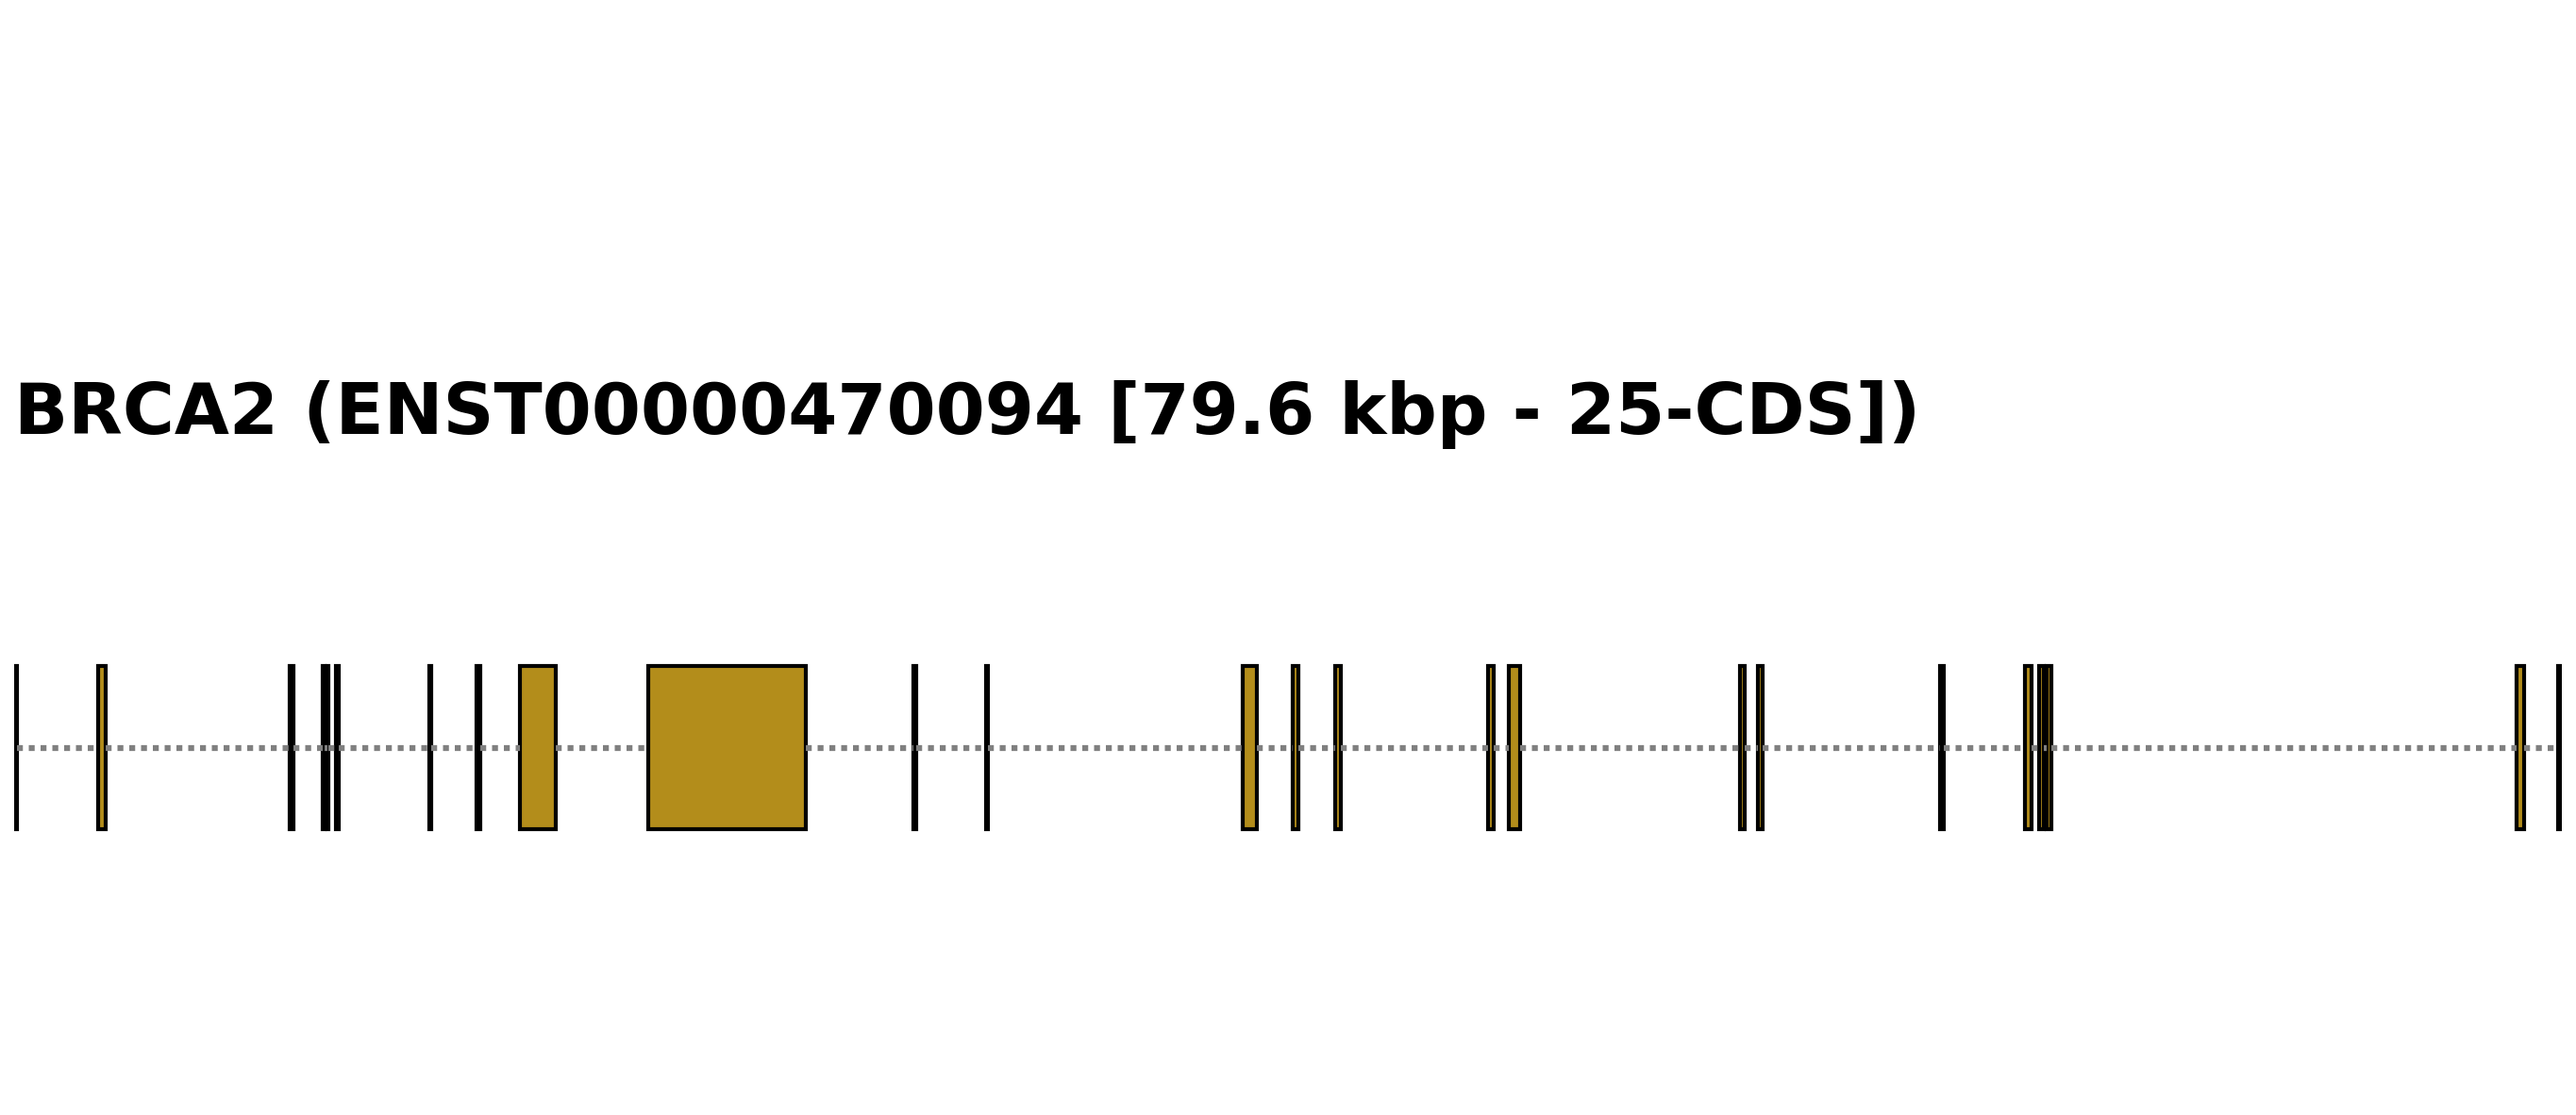
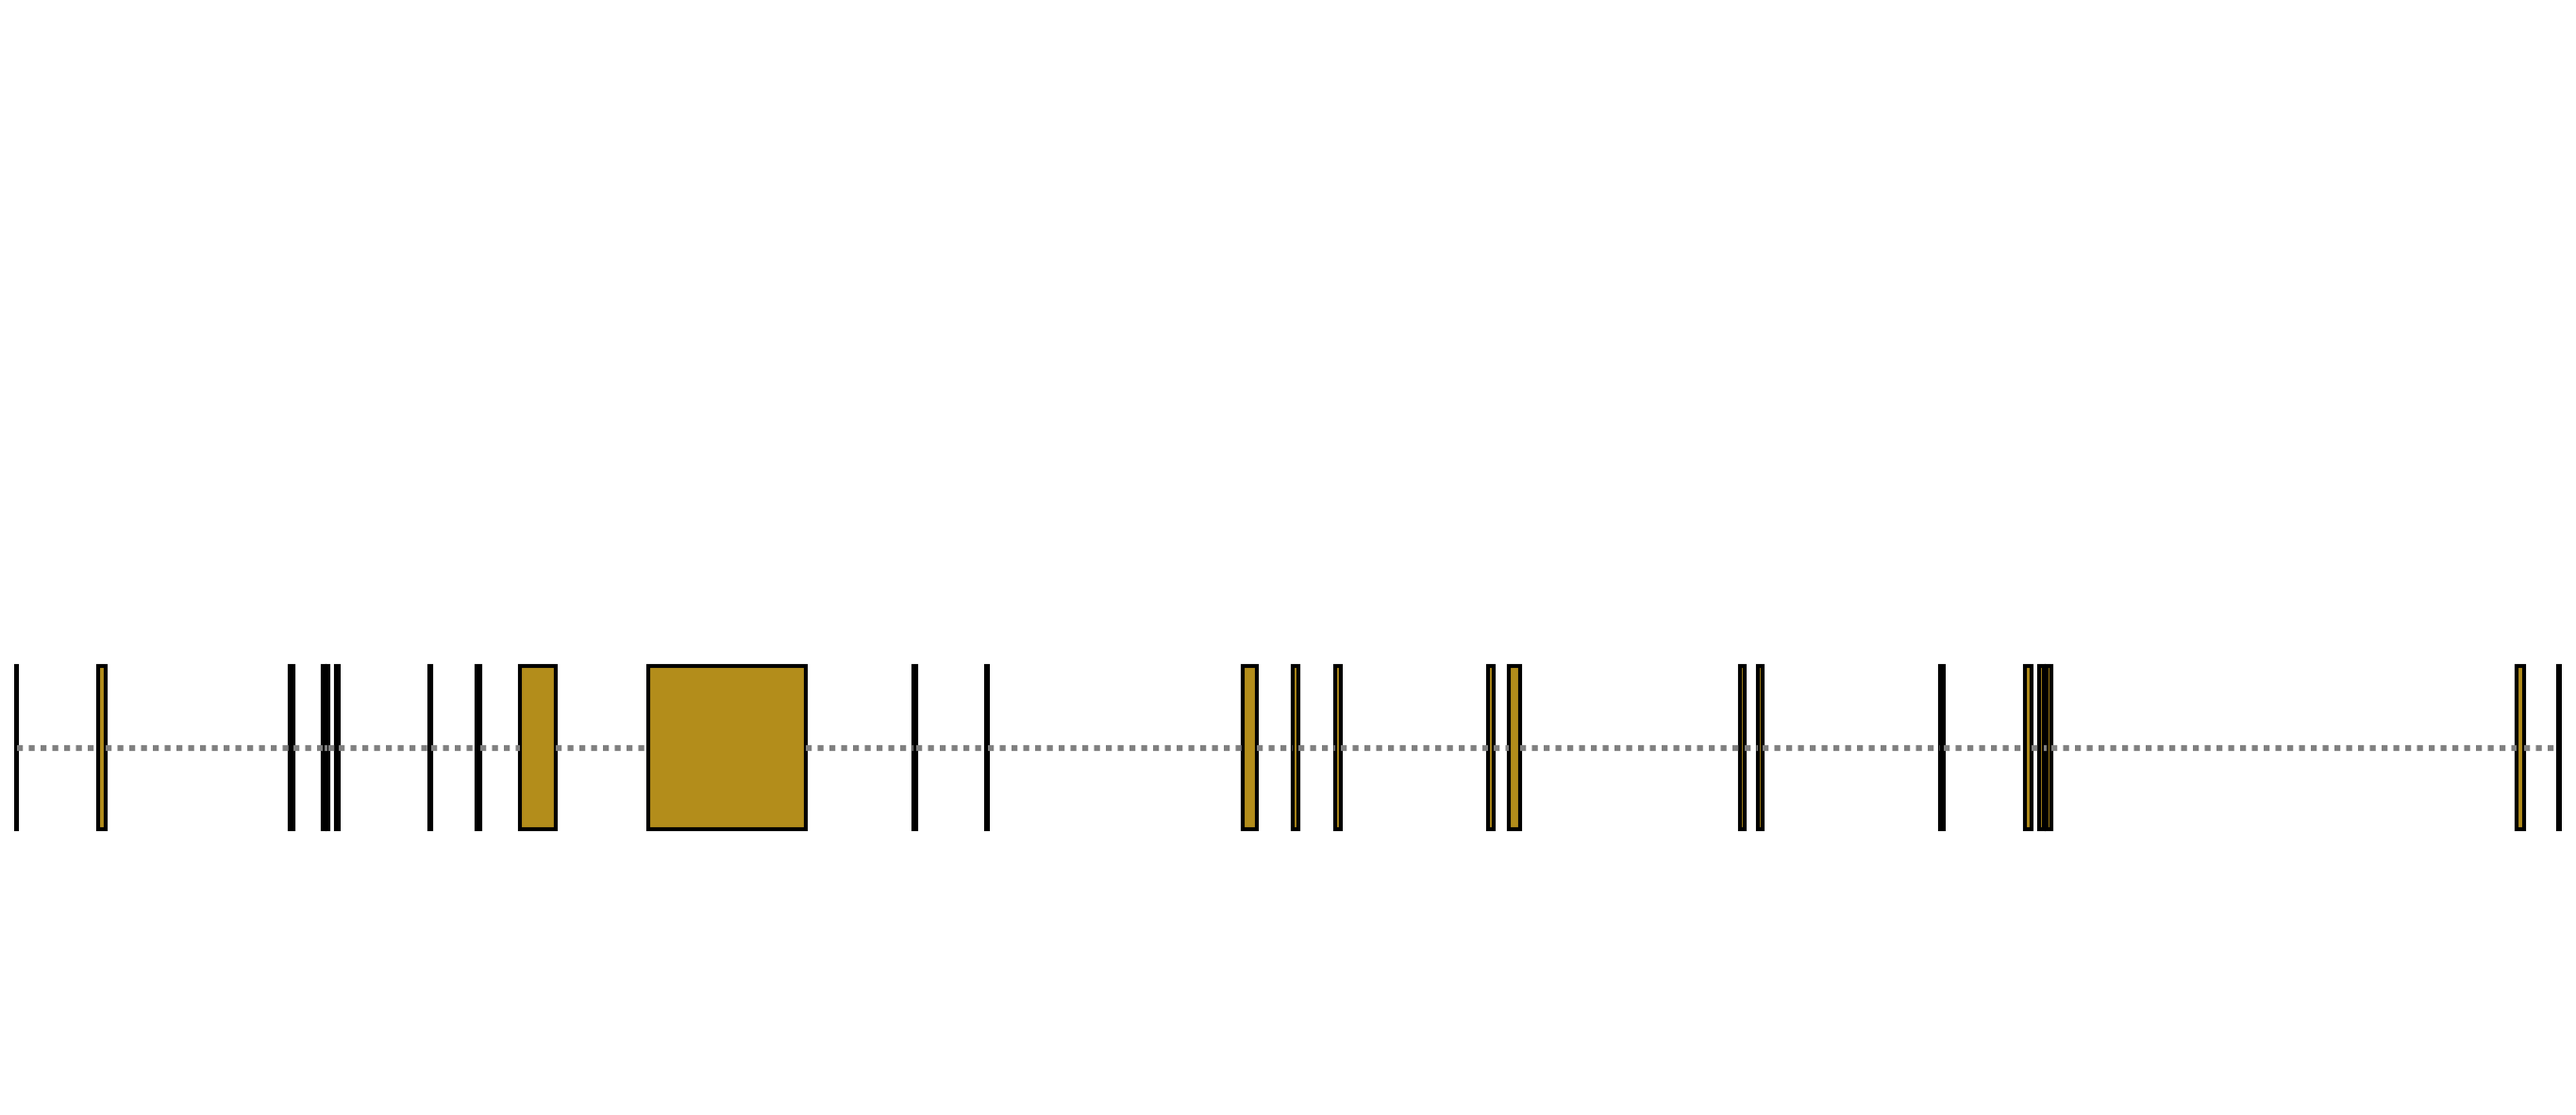
Version 1.0.3

Changed region(s): [[0.0, 0.335, 0.7473, 0.3959]]

diff --git a/Docs/Mini_Tutorial.md b/Docs/Mini_Tutorial.md
@@ -83,6 +83,7 @@
 	```
 	python3 Transcripts_Plots.py \
 	--format png \
+	--no_transcript_label \
 	--transcript ENST00000380152 \
 	--gtf Ensembl_Gene_ENSG00000139618.gtf \
 	--select exons
@@ -104,7 +105,7 @@
 	This transcript is 84.8 kbp long and is composed of 27-exons, with the following structure:
 
 	<p align="center">
-	<img src="https://github.com/raramayo/Transcripts_Plots_Python/blob/main/Images/Transcripts_Plots_dir_Run01/ENST00000380152_exons_Short_Introns.png" width="800" height="800" style="display: block; margin: 0 auto">
+	<img src="https://github.com/raramayo/Transcripts_Plots_Python/blob/main/Images/Transcripts_Plots_dir_Run01/ENST00000380152_exons_Short_Introns.png" width="1000" height="400" style="display: block; margin: 0 auto">
 	<p align="center">
 	BRCA2 (ENST00000380152 [84.8 kbp - 27-exons])
 
@@ -113,6 +114,7 @@
 	```
 	python3 Transcripts_Plots.py \
 	--format png \
+	--no_transcript_label \
 	--transcript ENST00000380152 \
 	--gtf Ensembl_Gene_ENSG00000139618.gtf \
 	--select CDS \
@@ -144,6 +146,7 @@
 	```
 	python3 Transcripts_Plots.py \
 	--format png \
+	--no_transcript_label \
 	--transcript ENST00000380152 \
 	--gtf Ensembl_Gene_ENSG00000139618.gtf \
 	--select CDS \
@@ -225,6 +228,7 @@
 	```
 	python3 Transcripts_Plots.py \
 	--format png \
+	--no_transcript_label \
 	--file Ensembl_multiple_genes_transcripts_list.txt \
 	--select CDS \
 	--full_scale
@@ -284,6 +288,7 @@
     ```
 	python3 Transcripts_Plots.py \
 	--format png \
+	--no_transcript_label \
 	--transcript ENST00000380152 \
 	--gtf Ensembl_Gene_ENSG00000139618.gtf \
 	--select exons \
@@ -310,6 +315,7 @@
     ```
 	python3 Transcripts_Plots.py \
 	--format png \
+	--no_transcript_label \
 	--transcript ENST00000380152 \
 	--gtf Ensembl_Gene_ENSG00000139618.gtf \
 	--select exons \
@@ -339,6 +345,7 @@
 	```
 	python3 Transcripts_Plots.py \
 	--format png \
+	--no_transcript_label \
 	--transcript ENST00000380152 \
 	--gtf Ensembl_Gene_ENSG00000139618.gtf \
     --select exons \
